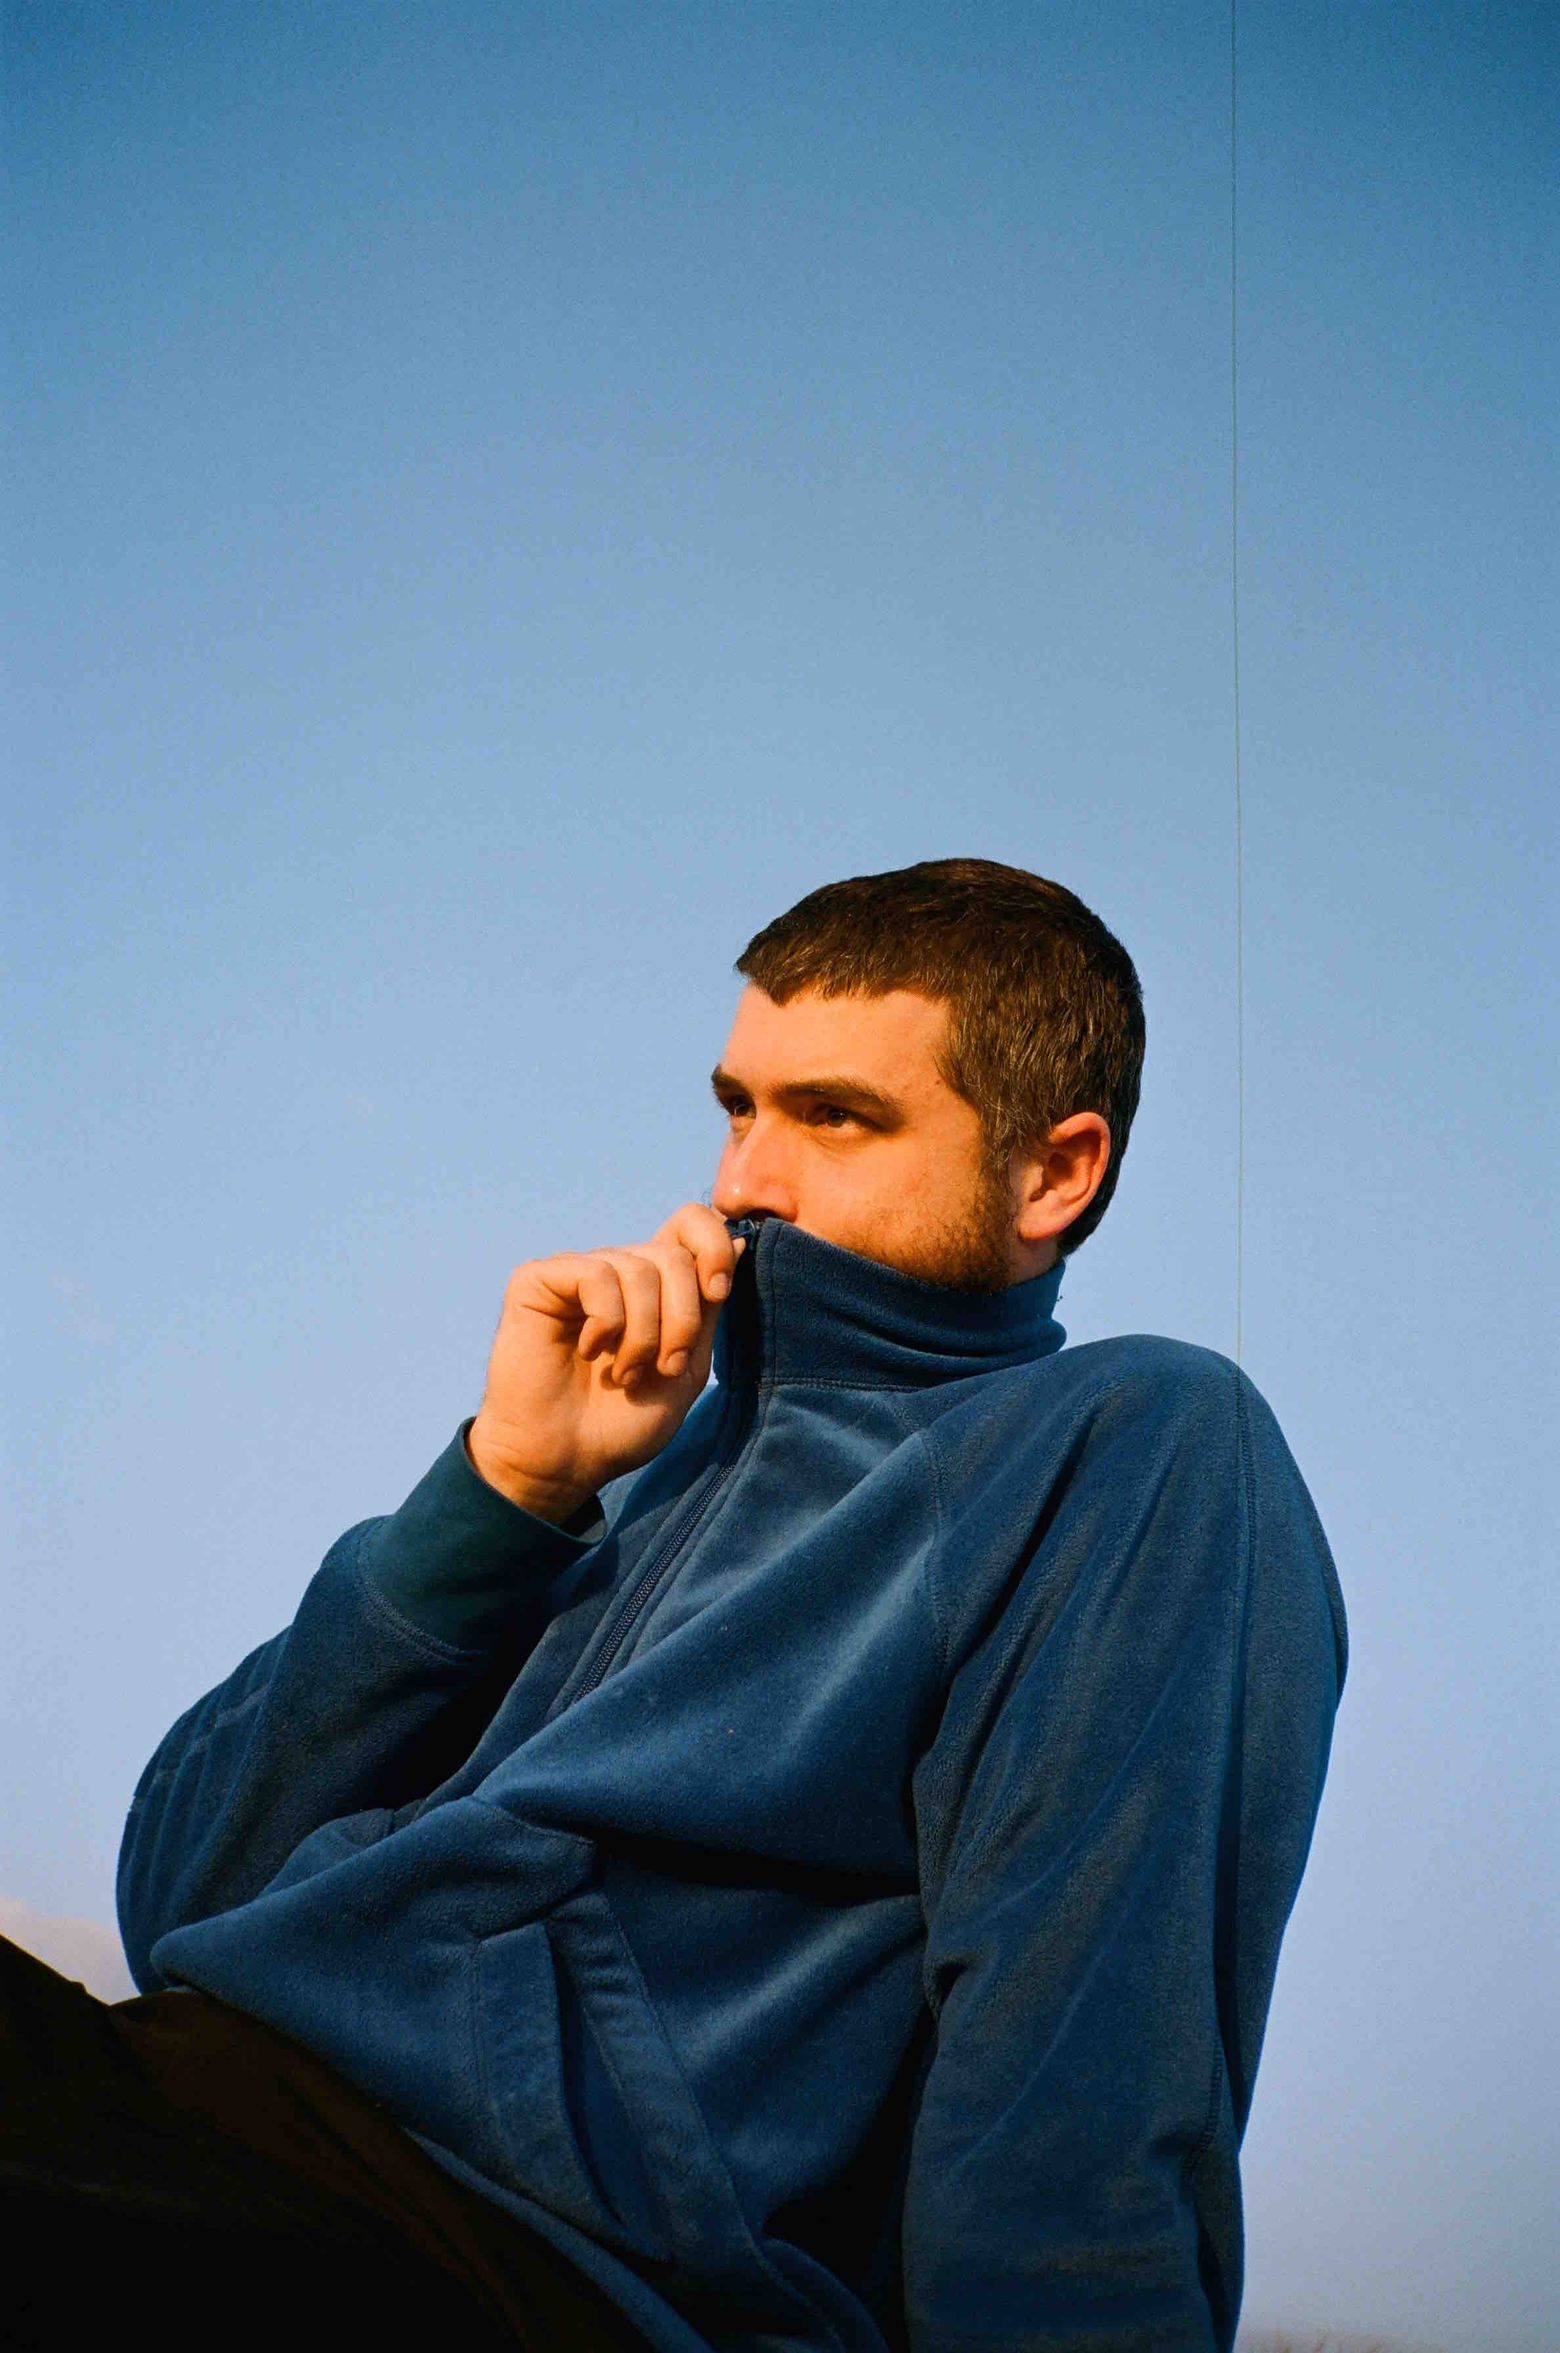
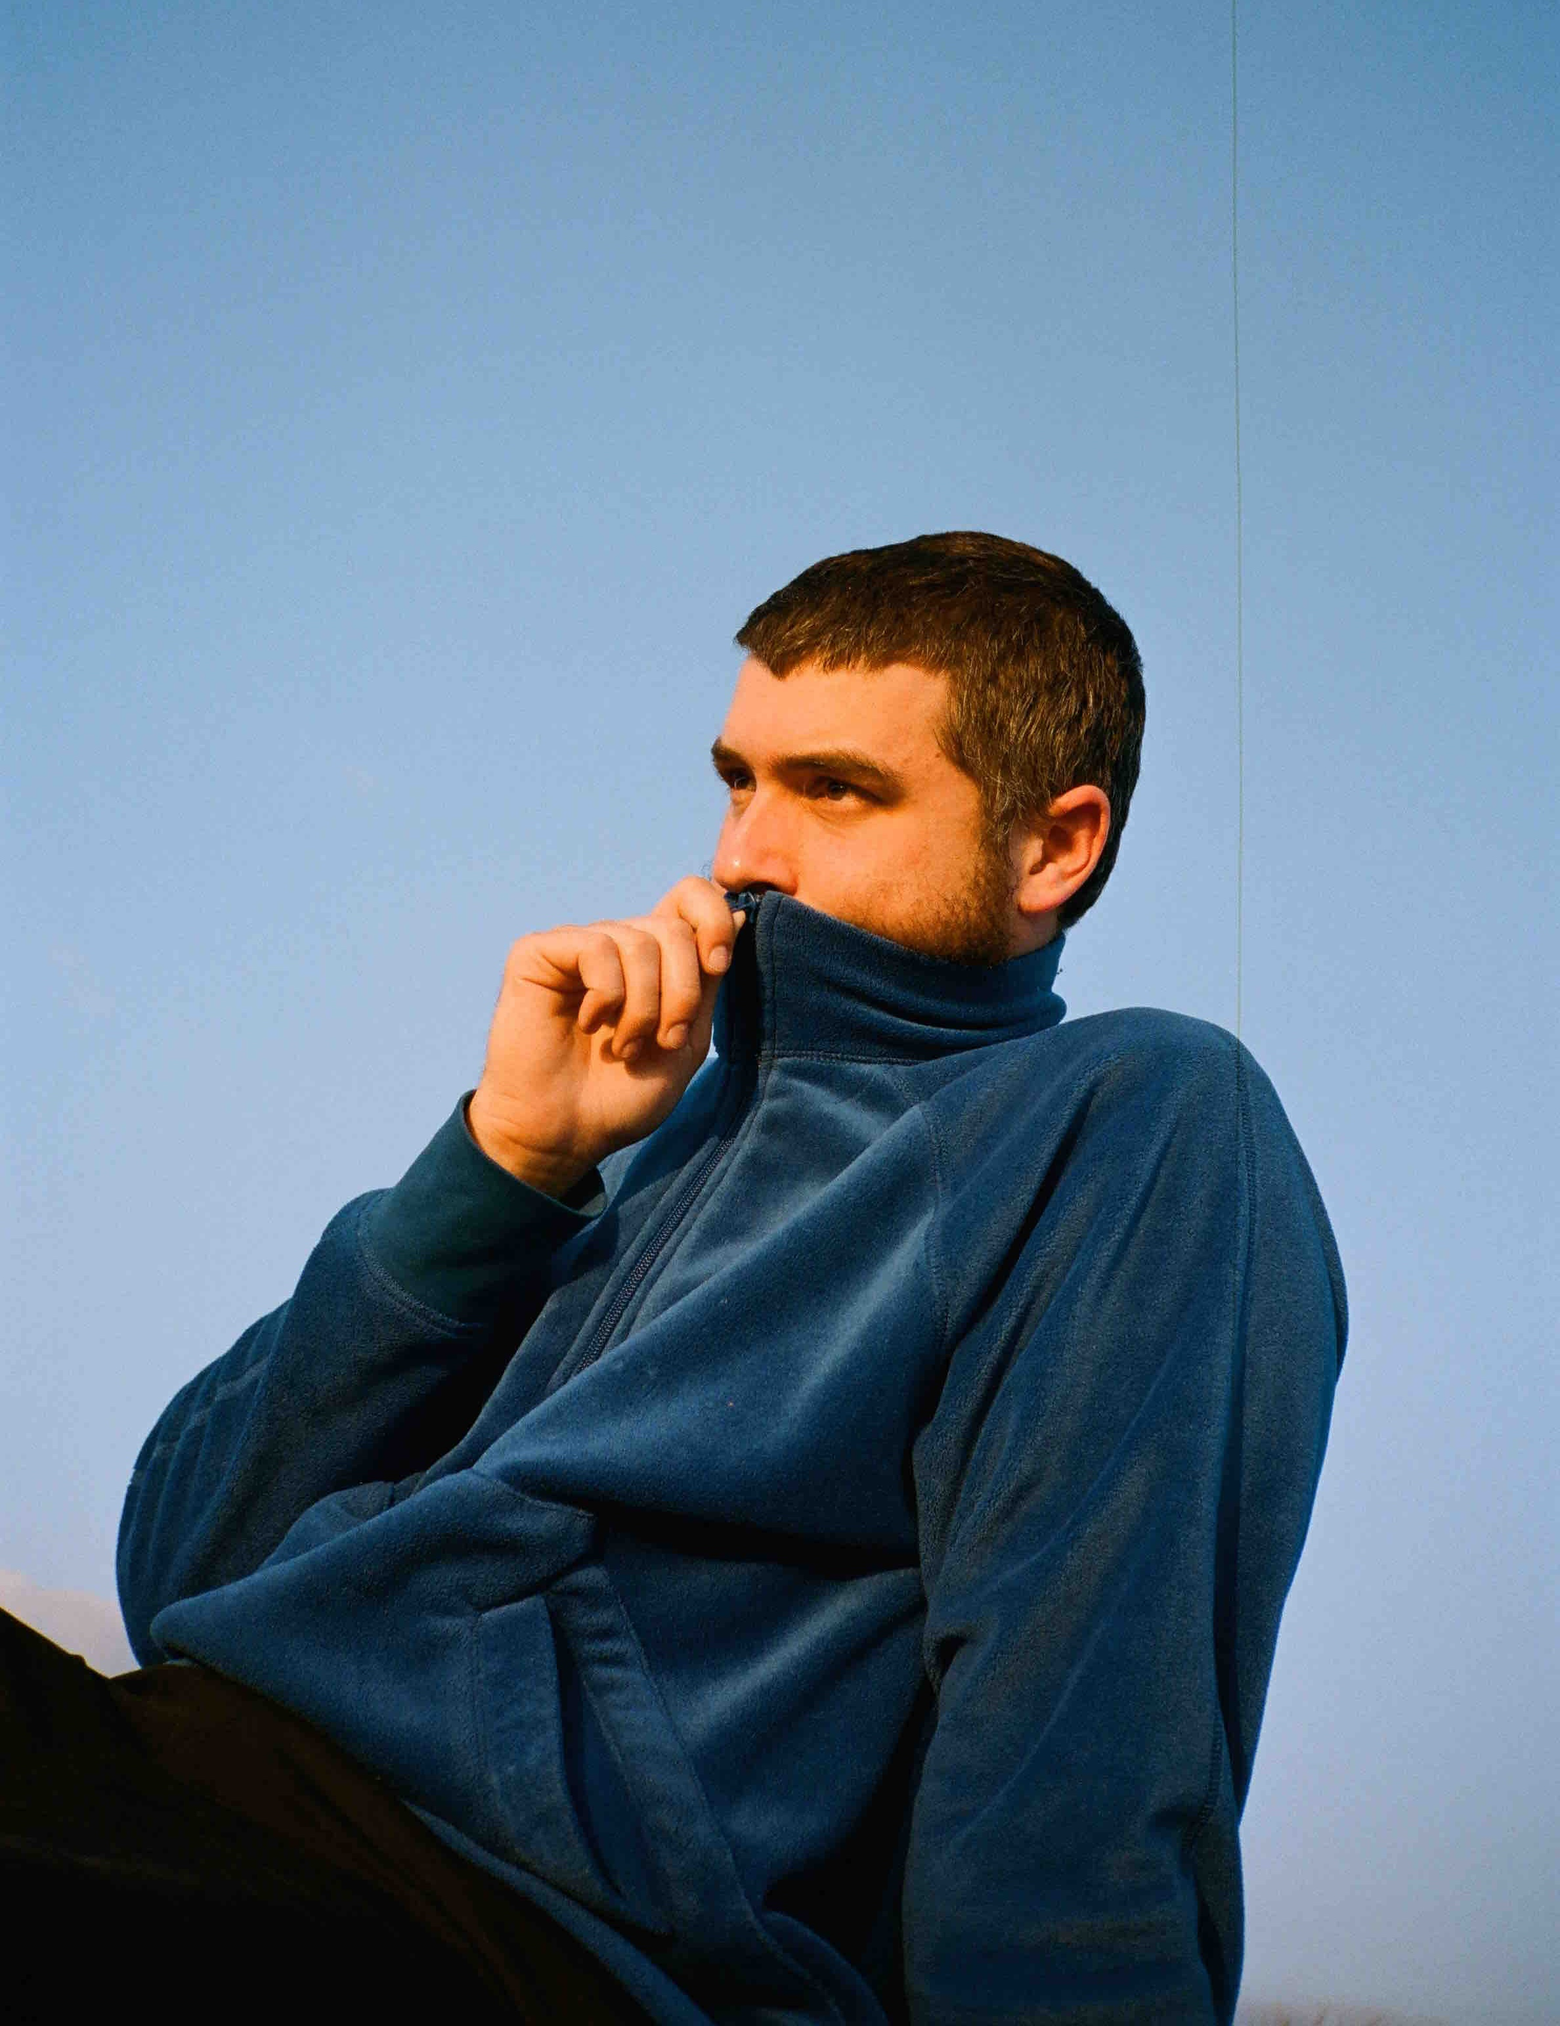
feat: replace Image component with motion.img for improved animation in ArtistImage

diff --git a/components/ArtistImage.tsx b/components/ArtistImage.tsx
@@ -2,7 +2,6 @@
 
 import { useRef } from "react"
 import { motion, useScroll, useTransform } from "framer-motion"
-import Image from "next/image"
 
 export default function ArtistImage({ src }: { src: string }) {
   const sectionRef = useRef(null)
@@ -12,15 +11,13 @@ export default function ArtistImage({ src }: { src: string }) {
   return (
     <section ref={sectionRef} className="relative overflow-hidden">
       {/* Video */}
-      <motion.div style={{ y }}>
-        <Image
-          src={src}
-          className="w-full h-[80vh] object-cover object-center"
-          alt=""
-          width={1000}
-          height={500}
-        />
-      </motion.div>
+      <motion.img
+        className="w-full max-w-xl mx-auto h-[500px] lg:h-[800px] object-cover object-center"
+        src={src}
+        style={{ y }}
+        width={1000}
+        height={500}
+      ></motion.img>
     </section>
   )
 }
